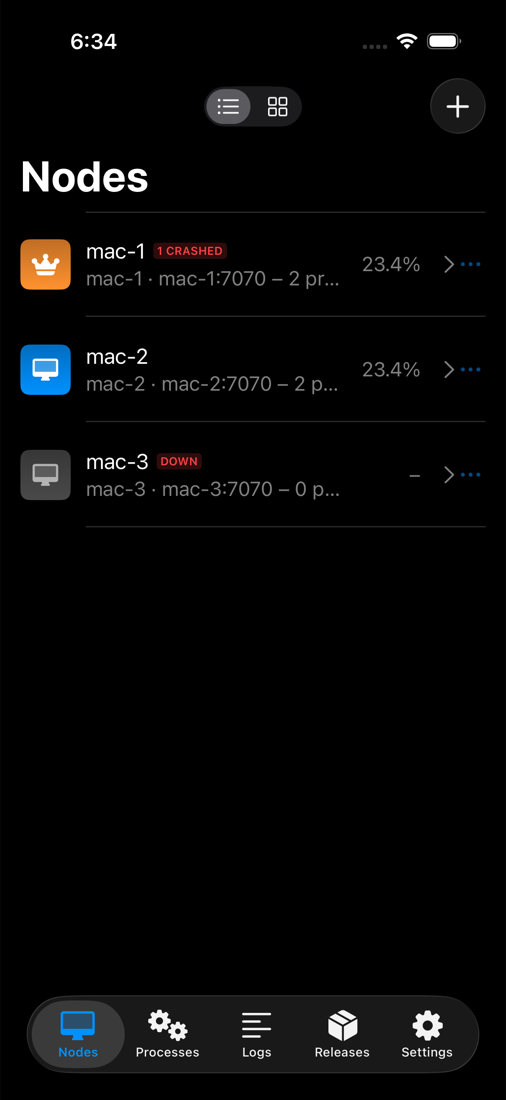
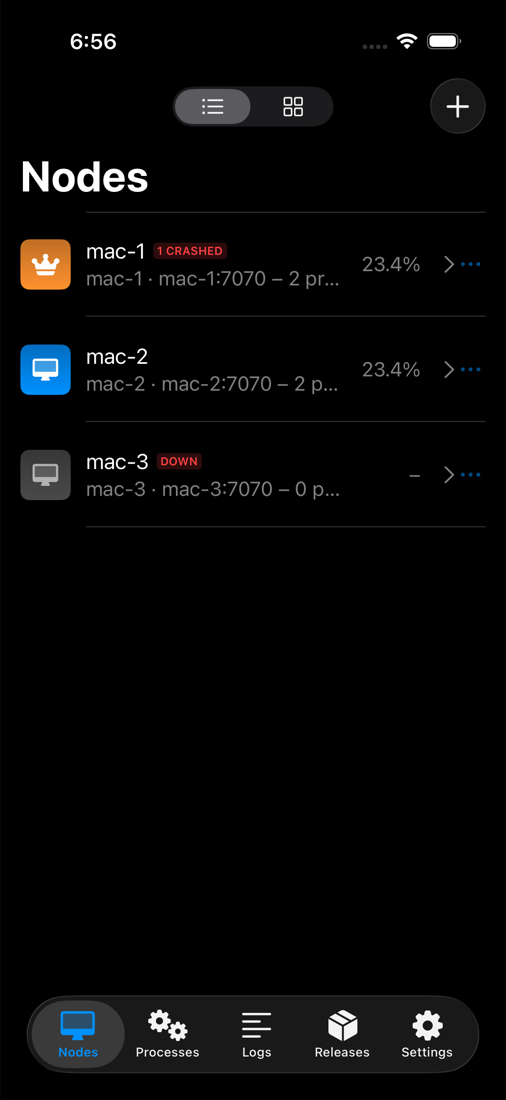
TenderApp iOS: horizontal room around the nodes layout switch

Changed region(s): [[0.5336, 0.0618, 0.6522, 0.1236], [0.3261, 0.0618, 0.4743, 0.1236], [0.1482, 0.0309, 0.2372, 0.0618]]

diff --git a/App/TenderApp/DashboardView.swift b/App/TenderApp/DashboardView.swift
@@ -142,6 +142,10 @@ struct NodesView: View {
                         ForEach(NodesLayout.allCases) { Label($0.title, systemImage: $0.symbol).tag($0) }
                     }
                     .pickerStyle(.segmented)
+                    #if os(iOS)
+                    // Room around each icon.
+                    .frame(width: 128)
+                    #endif
                     .help("Show nodes as a list or as cards")
                 }
                 ToolbarItem(placement: .primaryAction) {
